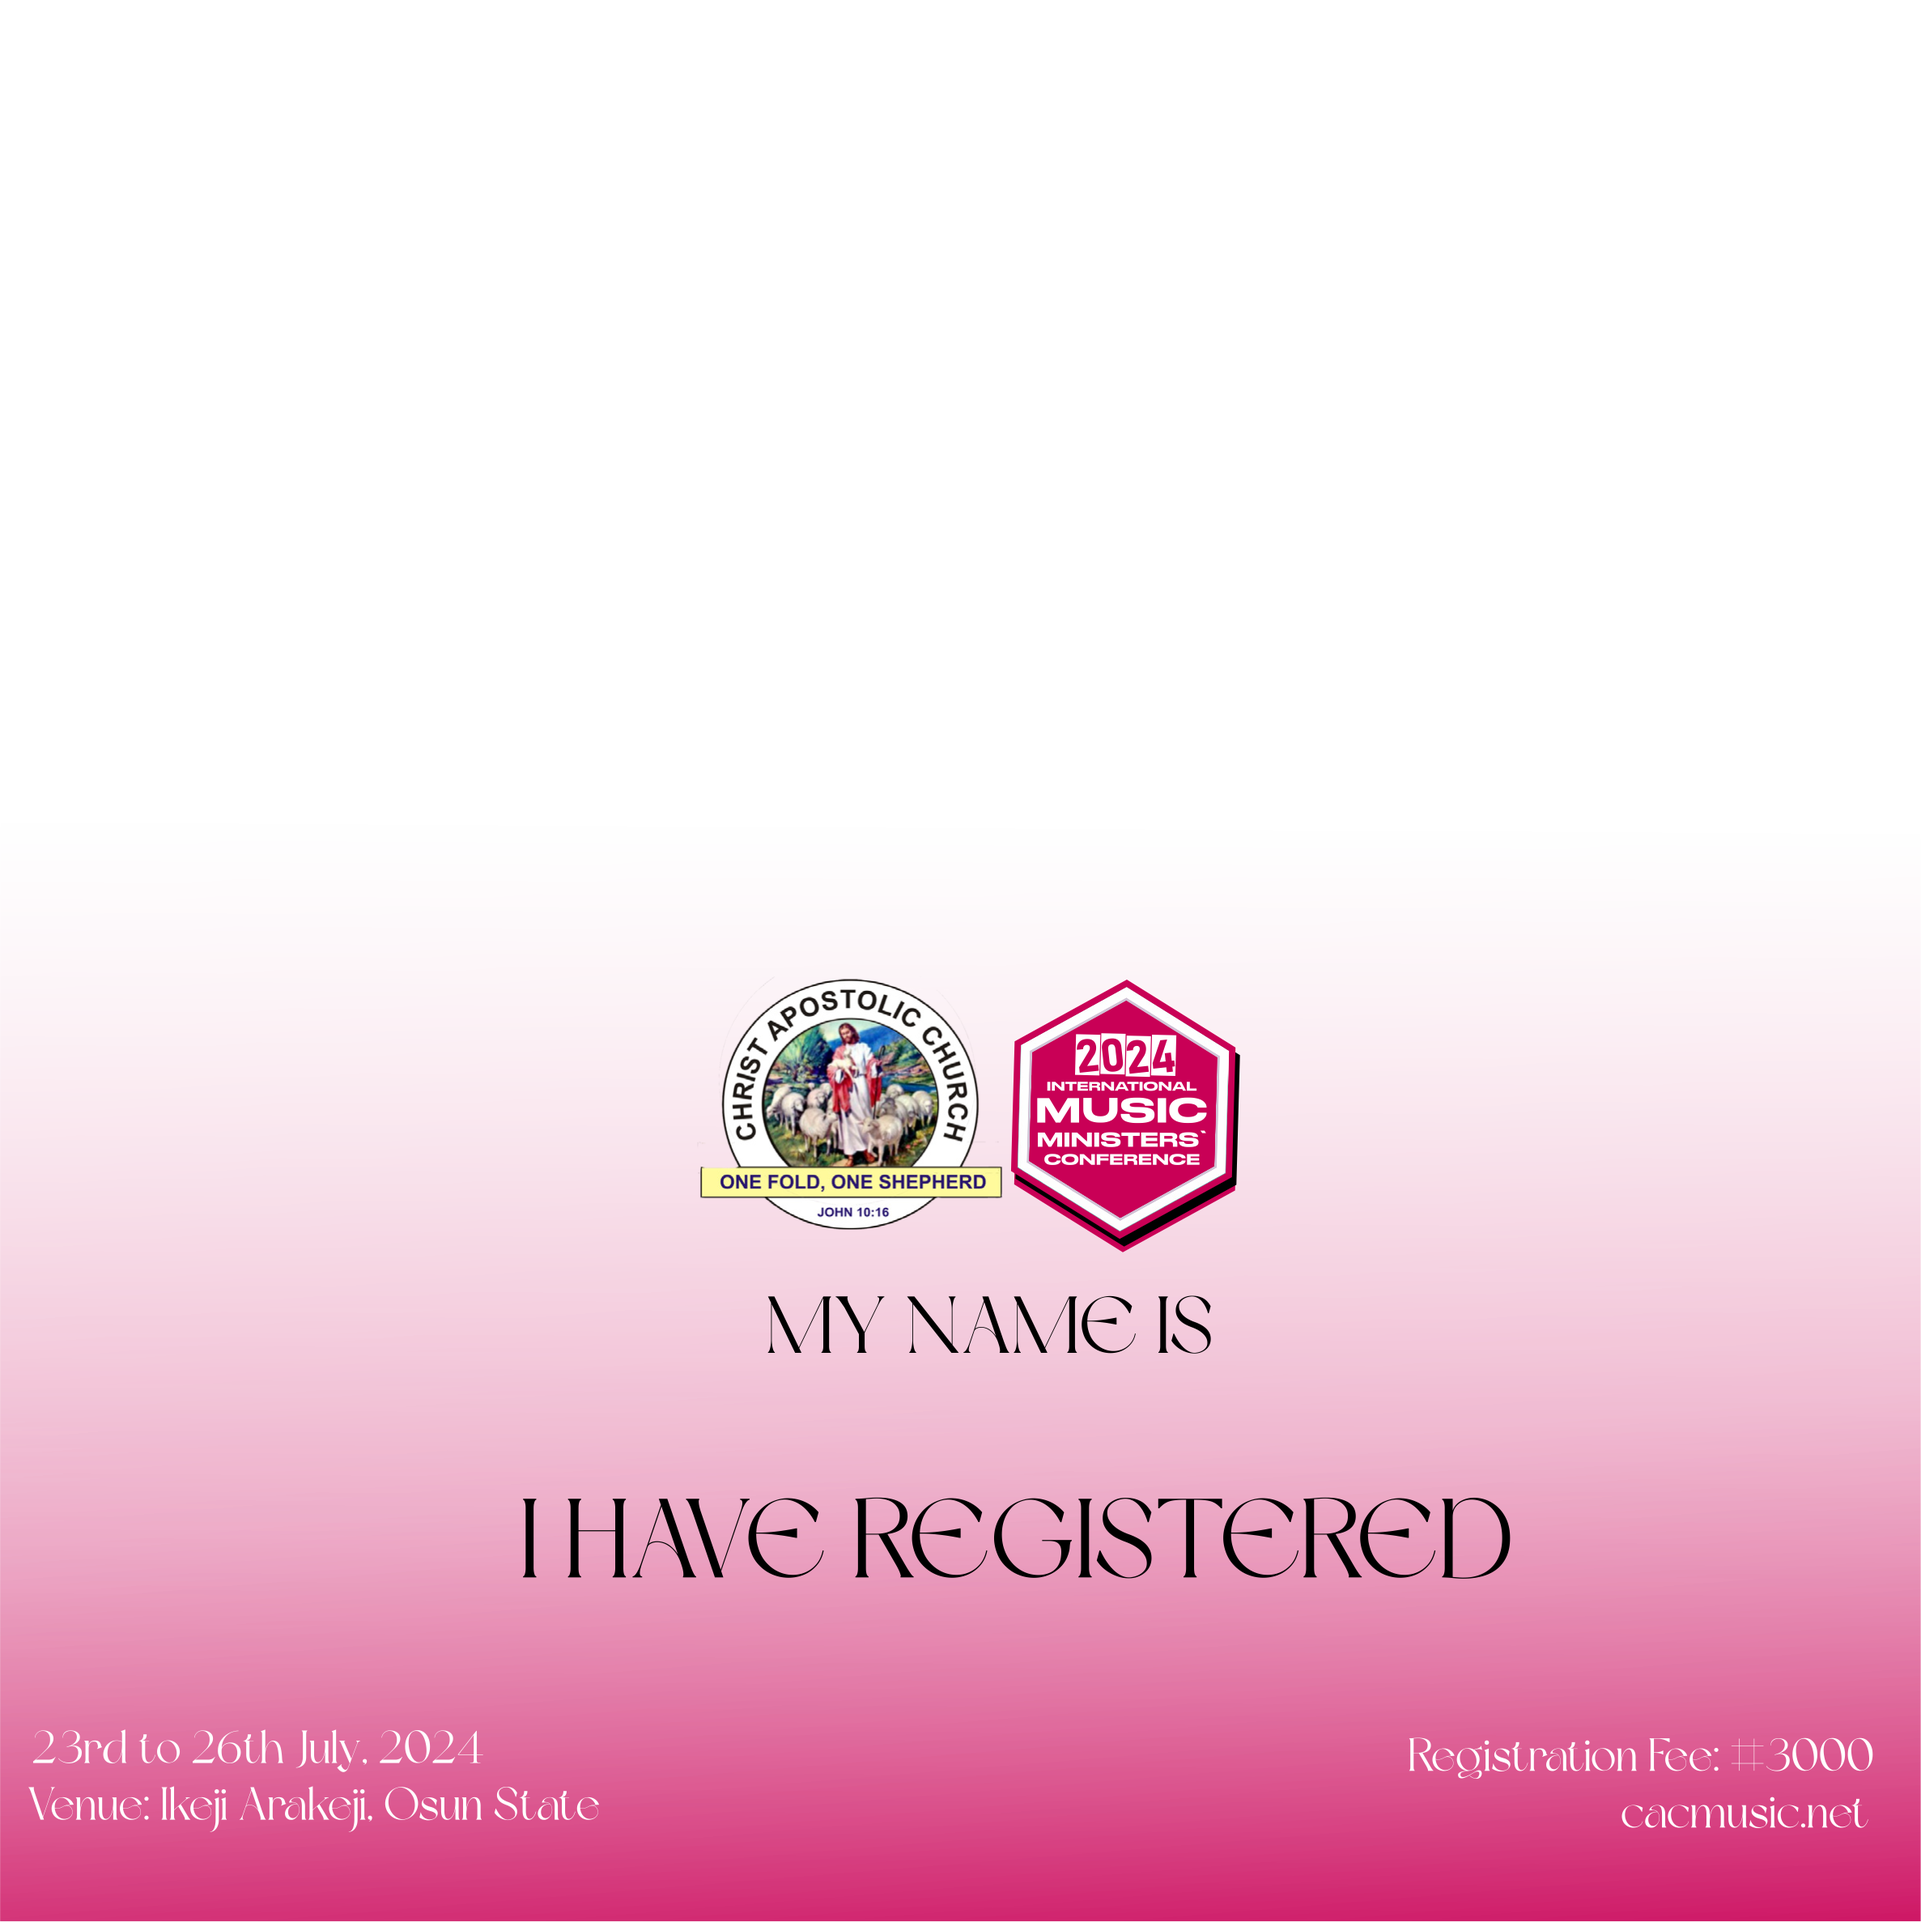
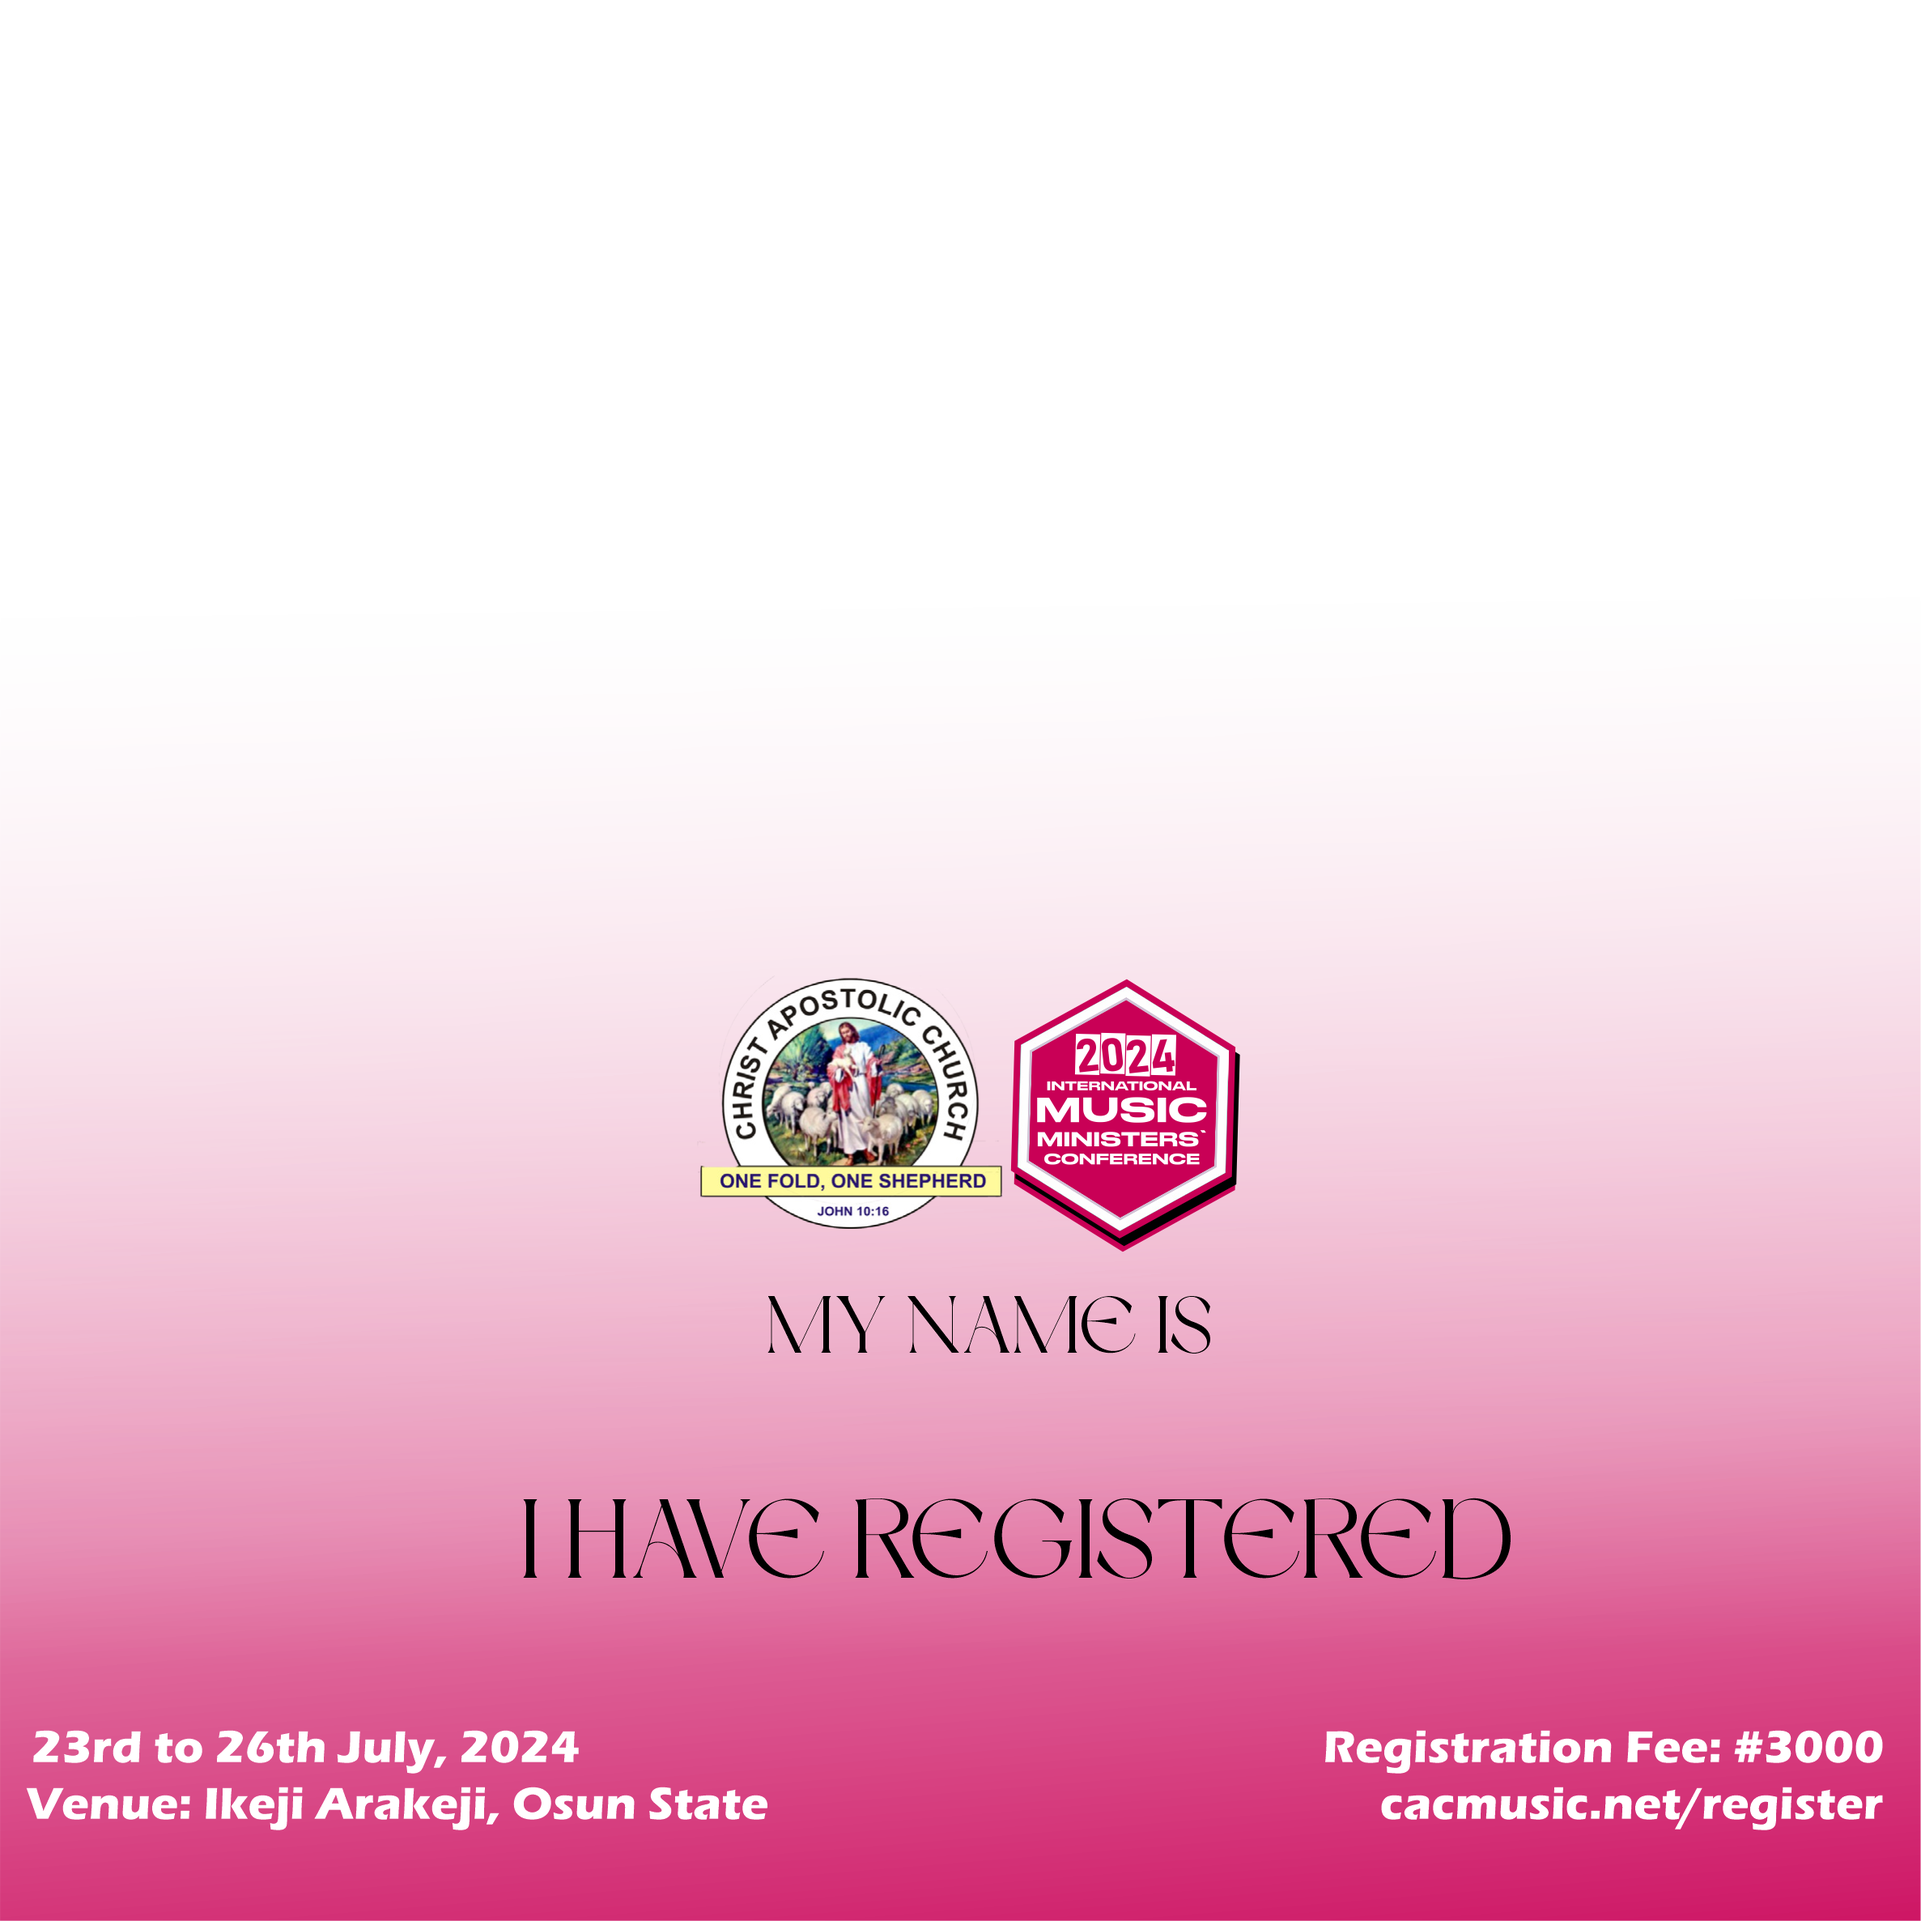
changed to a clearer bg-image and changed font to suit new style

diff --git a/style.css b/style.css
@@ -90,7 +90,7 @@ img {
   left: 0px;
   z-index: 10;
   background: rgba(8, 8, 8, 0.1);
-  color: #c8fee6;
+  color: #FFF3F7;
   padding: 5px;
   margin: 0;
   font: 20px Montserrat;
